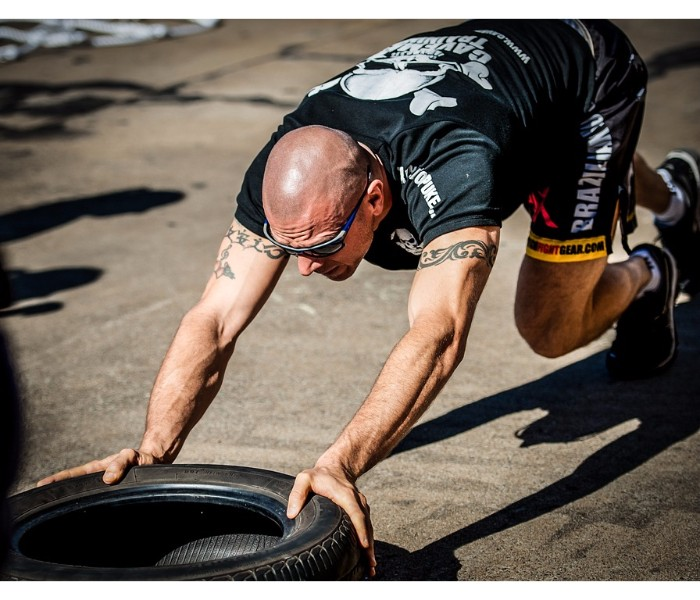
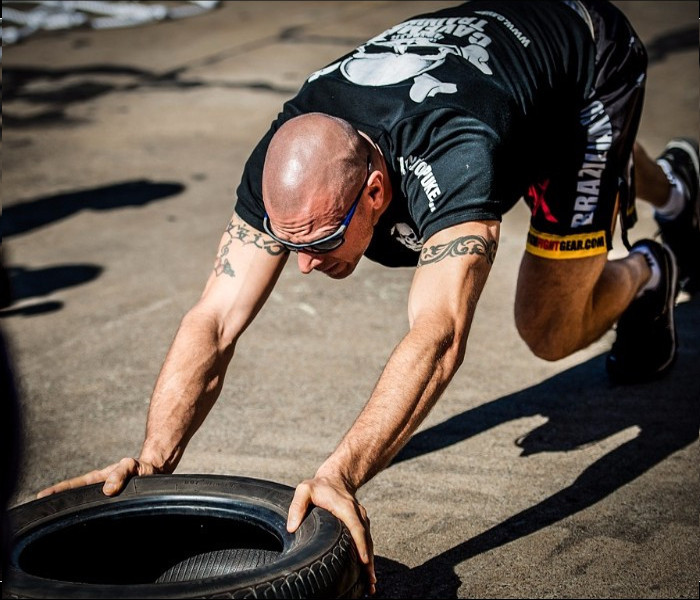
homepage >main >done

diff --git a/index.html b/index.html
@@ -59,7 +59,7 @@
                   <a class="nav-link" href="#">Home</a>
                 </li>
                 <li class="nav-item">
-                  <a class="nav-link" href="#">Tarif</a>
+                  <a class="nav-link" href="#">Tarifs</a>
                 </li>
                 <li class="nav-item">
                   <a class="nav-link" href="#">Contact</a>
@@ -88,7 +88,7 @@
                   <a class="nav-link" href="#">Home</a>
                 </li>
                 <li class="nav-item">
-                  <a class="nav-link" href="#">Tarif</a>
+                  <a class="nav-link" href="#">Tarifs</a>
                 </li>
                 <li class="nav-item">
                   <a class="nav-link" href="#">Contact</a>
@@ -106,7 +106,7 @@
         <section class="container">
           <div class="row">
 
-            <div id="myCarousel" class="carousel slide bg-inverse" data-ride="carousel">
+            <div id="myCarousel" class="carousel slide bg-inverse push-md-2 col-md-8" data-ride="carousel">
               <ol class="carousel-indicators">
                 <li data-target="#myCarousel" data-slide-to="0" class="active"></li>
                 <li data-target="#myCarousel" data-slide-to="1"></li>
@@ -150,7 +150,7 @@
 
         <!-- ARTICLES  @@@///@@@@@@@@//@@@@@//@@@@/@-->
 
-        <section>
+        <section class="presentation">
 
           <h2>Pésentation</h2>
 
@@ -158,43 +158,61 @@
             <div class="container">
                     <div class="row">
 
-                      <!-- ARTICLE 1 -->
-                        <div class="col-sm-6 col-md-4 col-lg-3 mt-4">
+                        <!-- ARTICLE 1 -->
+                        <div class="col-md-4">
                             <div class="card">
                                 <img class="card-img-top" src="img/desktop/art1.jpg">
                                 <div class="card-block">
-                                    <h5 class="text-bold">Tawshif Ahsan Khan</h5>
+                                    <h4 class="card-title">STEP 1</h4>
+                                    <div class="meta">
+                                        <a href="#"></a>
+                                    </div>
+                                    <div class="card-text">
+                                        Prenez un cours <strong>particulier</strong> avec un de nos coach exepert
+                                    </div>
+                                </div>
+                                <div class="card-footer">
+                                    <span><i class=""></i>Choisir sont <strong>coach</strong></span>
                                 </div>
                             </div>
                         </div>
 
+
                         <!-- ARTICLE 2 -->
-                        <div class="col-sm-6 col-md-4 col-lg-3 mt-4">
+                        <div class="col-md-4">
                             <div class="card">
                                 <img class="card-img-top" src="img/desktop/art2.jpg">
                                 <div class="card-block">
-                                    <h4 class="card-title">Tawshif Ahsan Khan</h4>
+                                    <h4 class="card-title">STEP 2</h4>
                                     <div class="meta">
-                                        <a href="#">Friends</a>
+                                        <a href="#"></a>
                                     </div>
                                     <div class="card-text">
-                                        Tawshif is a web designer living in Bangladesh.
+                                        Travaillez à <strong>votre</strong> rythme selon <strong>vos</strong> disponibilités
                                     </div>
                                 </div>
                                 <div class="card-footer">
-                                    <span class="float-right">Joined in 2013</span>
-                                    <span><i class=""></i>75 Friends</span>
+                                    <span><i class=""></i>Atteindre sont <strong>objectif</strong></span>
                                 </div>
                             </div>
                         </div>
 
                         <!-- ARTICLE 3 -->
-                        <div class="col-sm-6 col-md-4 col-lg-3 mt-4">
+                        <div class="col-md-4">
                             <div class="card">
-                                <img class="card-img-top" src="img/desktop/art2.jpg">
-                                <p class="card-block">
-                                    Lorem ipsum dolor sit amet, consectetur adipisicing elit. Quam velit quisquam veniam excepturi temporibus inventore corporis dicta sit culp!
-                                </p>
+                                <img class="card-img-top" src="img/desktop/art3.jpg">
+                                <div class="card-block">
+                                    <h4 class="card-title">STEP 3</h4>
+                                    <div class="meta">
+                                        <a href="#"></a>
+                                    </div>
+                                    <div class="card-text">
+                                        Maintenez votre <strong>forme</strong> seul avec les cours reçus
+                                    </div>
+                                </div>
+                                <div class="card-footer">
+                                    <span><i class=""></i>Maintenir la <strong>forme</strong></span>
+                                </div>
                             </div>
                         </div>
 

diff --git a/css/style.css b/css/style.css
@@ -2,6 +2,11 @@ body, html {
   width: 100%;
 }
 
+img {
+  width: 100%;
+  height: 100%;
+}
+
 body #header {
   position: fixed;
   z-index: 3;
@@ -21,7 +26,19 @@ body #header .phone .navbar ul {
   padding-left: 30px;
 }
 body #main {
-  top: 40px;
+  padding-top: 80px;
+}
+body #main #myCarousel {
+  padding: 0;
+}
+body #main #myCarousel div {
+  text-shadow: 0px 0px 6px black;
+}
+body #main #myCarousel div h3 {
+  font-size: 30px;
+}
+body #main .presentation h4 {
+  text-align: center;
 }
 
 /*# sourceMappingURL=style.css.map */

diff --git a/css/style.scss b/css/style.scss
@@ -5,6 +5,10 @@ $vert:#299C04;
 body,html{
   width: 100%;
 }
+img{
+  width: 100%;
+  height: 100%;
+}
 
 // BEGIN
 
@@ -33,6 +37,20 @@ body{
     }
   }
   #main{
-    top: 40px;
+    padding-top: 80px;
+    #myCarousel{
+      padding: 0;
+      div{
+        text-shadow: 0px 0px 6px black ;
+        h3{
+          font-size: 30px;
+        }
+      }
+    }
+    .presentation{
+      h4{
+        text-align: center;
+      }
+    }
   }
 }
